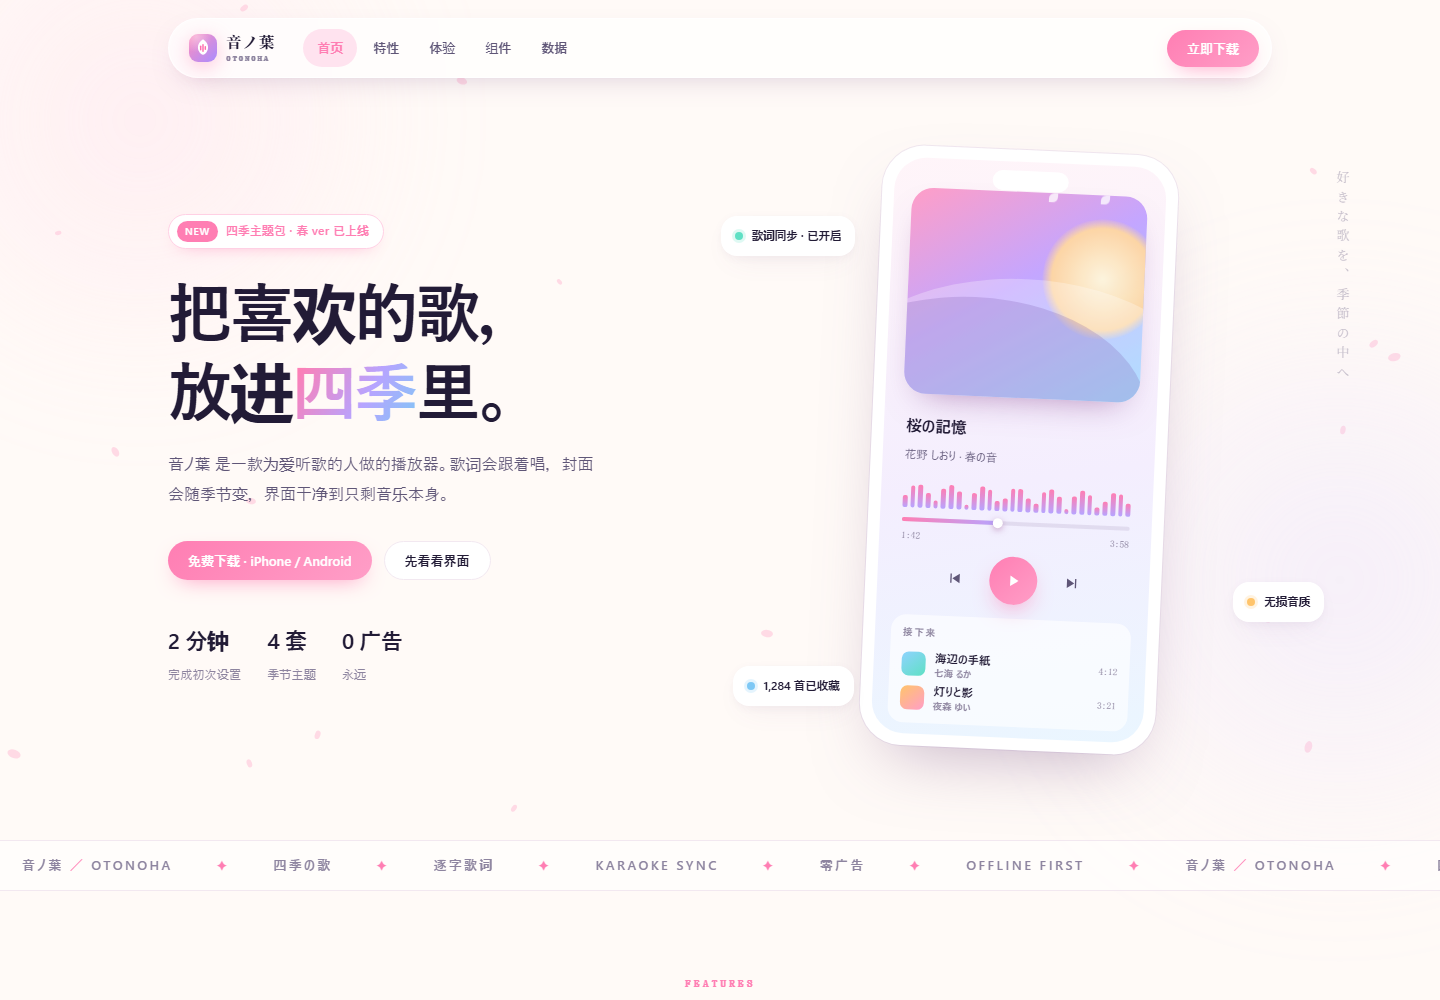
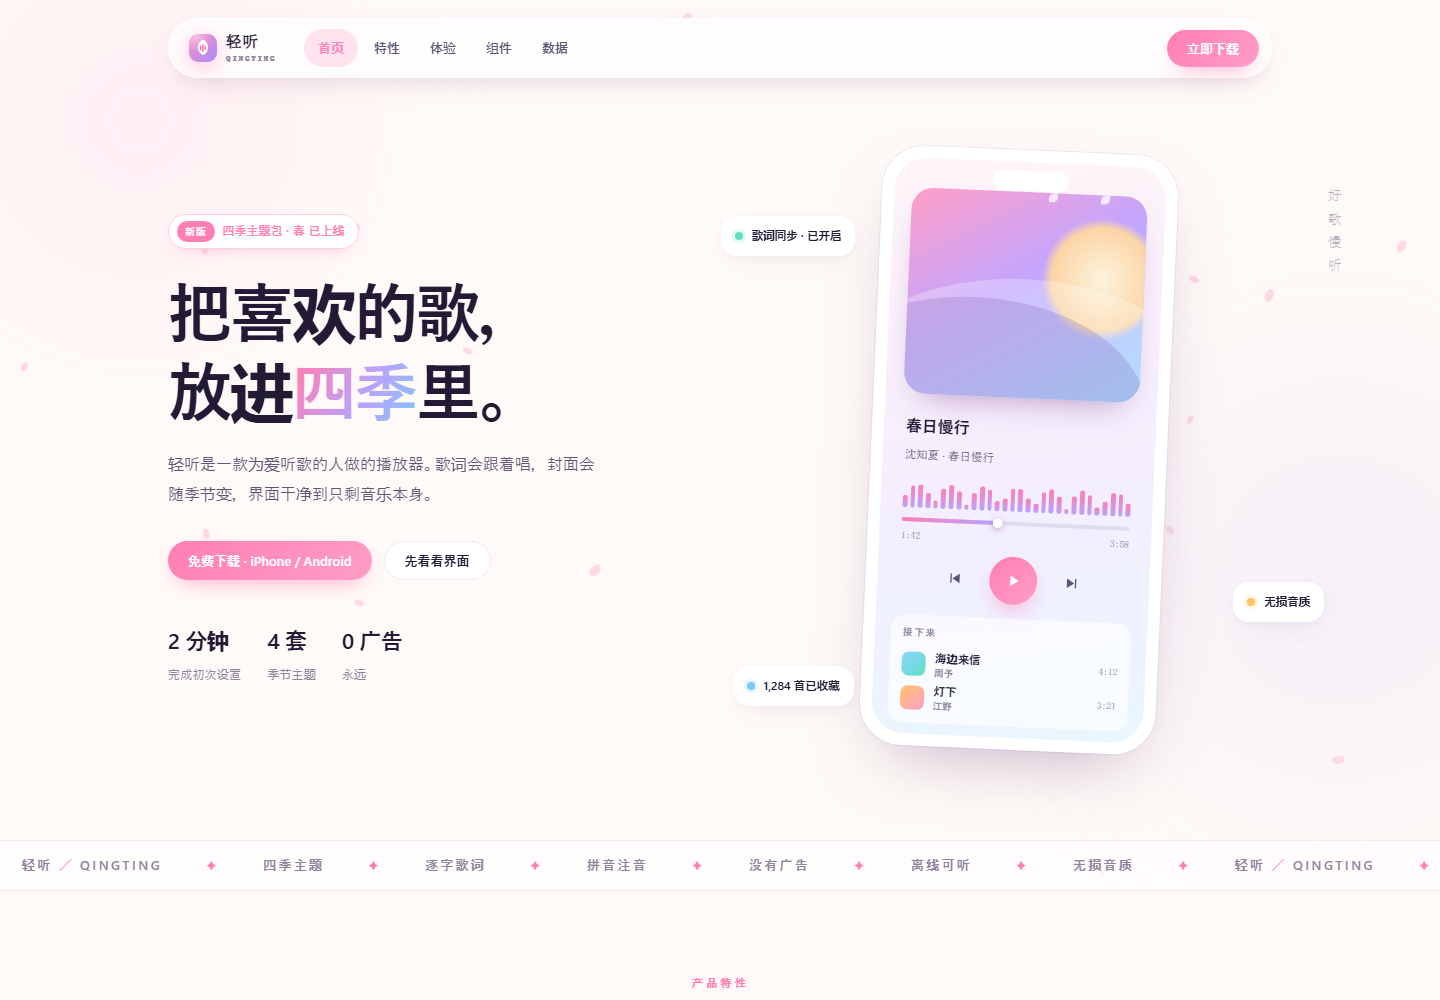
feat(hero): 手机样机支持曲目轮播
- 点上一首 / 下一首 / 点封面 / 左右滑动，切换四条曲目
- 封面渐变、太阳位置与色温、歌名、歌手、时长、进度条位置、「接下来」队列一起联动
- 切换带滑入淡出过渡（artOut/artIn/txtIn），版式与配色保持不变

diff --git a/index.html b/index.html
@@ -166,6 +166,13 @@ h1 em{font-style:normal;position:relative;white-space:nowrap;
 .qt small{display:block;font-size:9.5px;color:var(--ink-3);font-weight:500}
 .qd{font-family:ui-monospace,monospace;font-size:9.5px;color:var(--ink-3)}
 
+@keyframes artOut{to{opacity:0;transform:translateX(-14px) scale(.985)}}
+@keyframes artIn{from{opacity:0;transform:translateX(14px) scale(.985)}to{opacity:1;transform:none}}
+@keyframes txtIn{from{opacity:0;transform:translateY(7px)}to{opacity:1;transform:none}}
+.art{will-change:transform,opacity}
+.now.anim{animation:txtIn .34s cubic-bezier(.2,.8,.3,1)}
+.qrow{animation:txtIn .3s ease}
+
 /* 悬浮小卡 */
 .float{position:absolute;background:#fff;border-radius:16px;padding:10px 14px;
   box-shadow:var(--sh-1);display:flex;align-items:center;gap:9px;font-size:11.5px;font-weight:700;
@@ -396,30 +403,28 @@ footer small{font-size:11px;color:var(--ink-3);line-height:2}
           <div class="device">
             <div class="screen">
               <div class="notch"></div>
-              <div class="art">
-                <div class="sun"></div>
+              <div class="art" id="phArt">
+                <div class="sun" id="phSun"></div>
                 <div class="hill"></div>
                 <div class="hill two"></div>
                 <div class="petal" style="left:22%;animation-delay:0s"></div>
                 <div class="petal" style="left:58%;animation-delay:2.4s"></div>
                 <div class="petal" style="left:80%;animation-delay:4.1s"></div>
               </div>
-              <div class="now">
-                <h4>春日慢行</h4>
-                <span>沈知夏 · 春日慢行</span>
+              <div class="now" id="phNow">
+                <h4 id="phTitle">春日慢行</h4>
+                <span id="phArtist">沈知夏 · 春日慢行</span>
               </div>
               <div class="wave" id="miniWave"></div>
-              <div class="dash"><b></b><i></i></div>
-              <div class="times"><span>1:42</span><span>3:58</span></div>
+              <div class="dash"><b id="phBar"></b><i id="phKnob"></i></div>
+              <div class="times"><span id="phCur">1:42</span><span id="phDur">3:58</span></div>
               <div class="ctrl">
-                <button aria-label="prev"><svg width="16" height="16" viewBox="0 0 24 24" fill="currentColor"><path d="M6 5h2v14H6zM20 5v14L9 12z"/></svg></button>
+                <button id="phPrev" aria-label="prev"><svg width="16" height="16" viewBox="0 0 24 24" fill="currentColor"><path d="M6 5h2v14H6zM20 5v14L9 12z"/></svg></button>
                 <button class="play" id="miniPlay" aria-label="play"><svg width="18" height="18" viewBox="0 0 24 24" fill="currentColor"><path d="M8 5v14l11-7z"/></svg></button>
-                <button aria-label="next"><svg width="16" height="16" viewBox="0 0 24 24" fill="currentColor"><path d="M16 5h2v14h-2zM4 5v14l11-7z"/></svg></button>
+                <button id="phNext" aria-label="next"><svg width="16" height="16" viewBox="0 0 24 24" fill="currentColor"><path d="M16 5h2v14h-2zM4 5v14l11-7z"/></svg></button>
               </div>
-              <div class="queue">
+              <div class="queue" id="phQueue">
                 <div class="qh">接下来</div>
-                <div class="qi"><span class="qa" style="background:linear-gradient(140deg,#8fd3ff,#5fe0c4)"></span><span class="qt">海边来信<small>周予</small></span><span class="qd">4:12</span></div>
-                <div class="qi"><span class="qa" style="background:linear-gradient(140deg,#ffc46b,#ff9ec7)"></span><span class="qt">灯下<small>江野</small></span><span class="qd">3:21</span></div>
               </div>
             </div>
           </div>
@@ -868,6 +873,96 @@ var LYRICS=[
     paint();
   });
   paint();
+})();
+
+/* ---------- 手机样机：曲目轮播 ---------- */
+var TRACKS=[
+  {t:'春日慢行',a:'沈知夏',dur:'3:58',cur:'1:42',pos:42,
+   bg:'linear-gradient(150deg,#ff9ec7,#c4a6ff 45%,#8fd3ff)',
+   sun:'radial-gradient(circle,#fff8dc,#ffd7a1 60%,transparent 72%)',
+   sunW:120,right:-18,top:24},
+  {t:'海边来信',a:'周予',dur:'4:12',cur:'0:58',pos:23,
+   bg:'linear-gradient(150deg,#8fd3ff,#5fe0c4 52%,#d8f7f0)',
+   sun:'radial-gradient(circle,#ffffff,#c7f1ff 58%,transparent 70%)',
+   sunW:104,left:-22,top:-14},
+  {t:'灯下',a:'江野',dur:'3:21',cur:'2:10',pos:65,
+   bg:'linear-gradient(150deg,#ffc46b,#ff9ec7 48%,#b48cd8)',
+   sun:'radial-gradient(circle,#fff3d6,#ffb86b 55%,transparent 72%)',
+   sunW:88,right:34,top:96},
+  {t:'雪落的声音',a:'白露',dur:'4:44',cur:'0:31',pos:12,
+   bg:'linear-gradient(150deg,#c9d6f7,#b7a4ff 50%,#e9f3ff)',
+   sun:'radial-gradient(circle,#ffffff,#dfe9ff 60%,transparent 72%)',
+   sunW:92,right:20,top:18}
+];
+
+(function(){
+  var art=document.getElementById('phArt'), sun=document.getElementById('phSun');
+  var title=document.getElementById('phTitle'), artist=document.getElementById('phArtist');
+  var cur=document.getElementById('phCur'), dur=document.getElementById('phDur');
+  var bar=document.getElementById('phBar'), knob=document.getElementById('phKnob');
+  var now=document.getElementById('phNow'), queue=document.getElementById('phQueue');
+  var idx=0, busy=false;
+
+  function paint(i){
+    var k=TRACKS[i];
+    art.style.background=k.bg;
+    sun.style.background=k.sun;
+    sun.style.width=k.sunW+'px'; sun.style.height=k.sunW+'px';
+    sun.style.top=k.top+'px';
+    if(k.left!==undefined){ sun.style.left=k.left+'px'; sun.style.right='auto'; }
+    else { sun.style.right=k.right+'px'; sun.style.left='auto'; }
+    title.textContent=k.t;
+    artist.textContent=k.a+' · 春日慢行';
+    cur.textContent=k.cur; dur.textContent=k.dur;
+    bar.style.width=k.pos+'%'; knob.style.left=k.pos+'%';
+  }
+
+  function renderQueue(i){
+    var rows=queue.querySelectorAll('.qrow');
+    for(var r=0;r<rows.length;r++) rows[r].parentNode.removeChild(rows[r]);
+    for(var n=1;n<=2;n++){
+      var k=TRACKS[(i+n)%TRACKS.length];
+      var d=document.createElement('div');
+      d.className='qi qrow';
+      d.innerHTML='<span class="qa" style="background:'+k.bg+'"></span>'+
+                  '<span class="qt">'+k.t+'<small>'+k.a+'</small></span>'+
+                  '<span class="qd">'+k.dur+'</span>';
+      queue.appendChild(d);
+    }
+  }
+
+  function go(dir){
+    if(busy) return;
+    busy=true;
+    idx=(idx+dir+TRACKS.length)%TRACKS.length;
+    art.style.animation='artOut .22s ease forwards';
+    setTimeout(function(){
+      paint(idx);
+      renderQueue(idx);
+      art.style.animation='artIn .38s cubic-bezier(.2,.8,.3,1) forwards';
+      now.classList.remove('anim'); void now.offsetWidth; now.classList.add('anim');
+      setTimeout(function(){ busy=false; },220);
+    },210);
+  }
+
+  document.getElementById('phNext').addEventListener('click',function(){ go(1); });
+  document.getElementById('phPrev').addEventListener('click',function(){ go(-1); });
+
+  // 触摸滑动
+  var sx=0, sy=0, tracking=false;
+  art.addEventListener('touchstart',function(e){
+    sx=e.touches[0].clientX; sy=e.touches[0].clientY; tracking=true;
+  },{passive:true});
+  art.addEventListener('touchend',function(e){
+    if(!tracking) return; tracking=false;
+    var dx=e.changedTouches[0].clientX-sx, dy=e.changedTouches[0].clientY-sy;
+    if(Math.abs(dx)>34 && Math.abs(dx)>Math.abs(dy)) go(dx<0?1:-1);
+  },{passive:true});
+
+  // 点封面也能切
+  art.addEventListener('click',function(){ go(1); });
+
+  paint(0); renderQueue(0);
 })();
 
 /* ---------- 音量滑块 ---------- */

diff --git a/README.md b/README.md
@@ -39,6 +39,7 @@
 - 标签页切换（歌词 / 歌单）
 - 开关、分段控件、气泡提示、数字滚动
 - 樱花飘落（Canvas，22 片，各自速度与摆幅）
+- **手机样机曲目轮播**：点下一首 / 上一首 / 点封面 / 左右滑动，封面渐变、太阳位置、歌名、时长、进度、"接下来"队列一起切换，带滑入淡出过渡
 - 响应式：960px / 640px 两档断点
 
 ---
